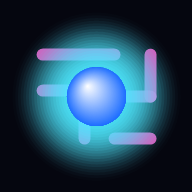
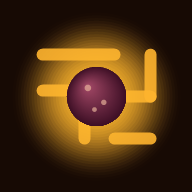
改名《百香果頭女孩》+ 吉祥物改為百香果頭少女
- 過關吉祥物改為 Q 版少女:剖半百香果當頭(果肉臉 + 黑籽)、
  頭頂嫩芽與百香果花髮飾、紫紅洋裝金色滾邊、膚色手腳,
  一手舀刨冰一手搖扇,動畫沿用(搖擺/眨眼/湯匙/搖扇)
- 遊戲與專案改名:百香果頭女孩 PASSIONFRUIT HEAD GIRL
  (頁面標題、開始畫面、manifest、README、資料夾與 remote)
- PWA 圖示改為百香果配色(紫果球 + 橙色迷宮線 + 暖色底)
- Service Worker 快取改名 pfhg-v4

diff --git a/index.html b/index.html
@@ -3,16 +3,16 @@
 <head>
 <meta charset="UTF-8">
 <meta name="viewport" content="width=device-width, initial-scale=1.0, maximum-scale=1.0, user-scalable=no, viewport-fit=cover">
-<title>Nebula Maze 星雲迷宮</title>
-<meta name="description" content="傾斜手機,引導光球穿越星雲能量迷宮。無限關卡、收集星星、躲避黑洞。">
-<meta name="theme-color" content="#05060f">
+<title>百香果頭女孩</title>
+<meta name="description" content="傾斜手機,讓百香果頭女孩的百香果滾過果肉迷宮。無限關卡、收集花朵、避開蟲蛀洞。">
+<meta name="theme-color" content="#170a04">
 <link rel="manifest" href="manifest.webmanifest">
 <link rel="icon" type="image/svg+xml" href="icons/favicon.svg">
 <link rel="apple-touch-icon" href="icons/icon-192.png">
 <meta name="mobile-web-app-capable" content="yes">
 <meta name="apple-mobile-web-app-capable" content="yes">
 <meta name="apple-mobile-web-app-status-bar-style" content="black-translucent">
-<meta name="apple-mobile-web-app-title" content="Nebula Maze">
+<meta name="apple-mobile-web-app-title" content="百香果頭女孩">
 <link rel="stylesheet" href="css/style.css">
 </head>
 <body>
@@ -36,8 +36,8 @@
 <div id="screen-start" class="overlay">
   <div class="panel">
     <div class="logo-orb"></div>
-    <h1 id="title-main">PASSION&nbsp;MAZE</h1>
-    <p class="subtitle" id="title-sub">百香果迷宮</p>
+    <h1 id="title-main">百香果頭女孩</h1>
+    <p class="subtitle" id="title-sub">PASSIONFRUIT HEAD GIRL</p>
     <p class="desc" id="title-desc">傾斜你的手機,讓百香果滾過果肉迷宮。<br>收集花朵、避開蟲蛀洞、滾進果汁漩渦。</p>
     <div class="best" id="best-line"></div>
     <button class="btn-primary" id="btn-start">開始遊戲</button>
@@ -49,7 +49,7 @@
 <!-- 過關畫面 -->
 <div id="screen-clear" class="overlay hidden">
   <div class="panel">
-    <!-- 百香果吉祥物:剖半百香果吃刨冰乘涼(僅百香果主題顯示) -->
+    <!-- 百香果頭少女:剖半百香果當頭的女孩,吃刨冰乘涼(僅百香果主題顯示) -->
     <div id="clear-mascot" aria-hidden="true">
       <svg viewBox="0 0 220 175" xmlns="http://www.w3.org/2000/svg">
         <defs>
@@ -60,65 +60,80 @@
           </radialGradient>
         </defs>
         <!-- 地面影子 -->
-        <ellipse cx="112" cy="163" rx="66" ry="8" fill="rgba(0,0,0,0.3)"/>
+        <ellipse cx="112" cy="164" rx="60" ry="7" fill="rgba(0,0,0,0.3)"/>
         <g class="m-bob">
-          <!-- 腳 -->
-          <ellipse cx="92" cy="150" rx="10" ry="6" fill="#4a1631"/>
-          <ellipse cx="132" cy="150" rx="10" ry="6" fill="#4a1631"/>
-          <!-- 身體:剖半百香果(果皮 → 白色內皮 → 果肉) -->
-          <circle cx="112" cy="94" r="55" fill="#5a1e3e"/>
-          <circle cx="112" cy="94" r="48" fill="#f6e8d8"/>
-          <circle cx="112" cy="94" r="42" fill="url(#m-pulp)"/>
-          <!-- 果肉裡的黑籽(繞一圈) -->
+          <!-- 腿與鞋 -->
+          <line x1="103" y1="128" x2="103" y2="149" stroke="#ffd9b8" stroke-width="5" stroke-linecap="round"/>
+          <line x1="121" y1="128" x2="121" y2="149" stroke="#ffd9b8" stroke-width="5" stroke-linecap="round"/>
+          <ellipse cx="102" cy="152" rx="7" ry="4.5" fill="#4a1631"/>
+          <ellipse cx="122" cy="152" rx="7" ry="4.5" fill="#4a1631"/>
+          <!-- 脖子 -->
+          <rect x="108" y="80" width="8" height="10" rx="3" fill="#ffd9b8"/>
+          <!-- 洋裝 -->
+          <path d="M94 90 Q112 84 130 90 L141 131 Q112 141 83 131 Z" fill="#8f3a6b"/>
+          <path d="M85 124 Q112 134 139 124" stroke="#ffb52e" stroke-width="2.5" fill="none" stroke-linecap="round"/>
+          <circle cx="112" cy="102" r="2" fill="#ffd66e"/>
+          <circle cx="112" cy="112" r="2" fill="#ffd66e"/>
+          <ellipse cx="112" cy="89" rx="9" ry="3.5" fill="#fff7ea"/>
+          <!-- 頭:剖半百香果(果皮 → 白色內皮 → 果肉臉) -->
+          <circle cx="112" cy="52" r="34" fill="#5a1e3e"/>
+          <circle cx="112" cy="52" r="29.5" fill="#f6e8d8"/>
+          <circle cx="112" cy="52" r="26" fill="url(#m-pulp)"/>
+          <!-- 果肉黑籽(避開臉的位置) -->
           <g fill="#2e1608">
-            <ellipse cx="112" cy="60" rx="4.5" ry="3.5"/>
-            <ellipse cx="138" cy="70" rx="4.5" ry="3.5" transform="rotate(40 138 70)"/>
-            <ellipse cx="146" cy="96" rx="4.5" ry="3.5" transform="rotate(80 146 96)"/>
-            <ellipse cx="136" cy="122" rx="4.5" ry="3.5" transform="rotate(130 136 122)"/>
-            <ellipse cx="88" cy="122" rx="4.5" ry="3.5" transform="rotate(50 88 122)"/>
-            <ellipse cx="78" cy="96" rx="4.5" ry="3.5" transform="rotate(100 78 96)"/>
-            <ellipse cx="86" cy="70" rx="4.5" ry="3.5" transform="rotate(140 86 70)"/>
+            <ellipse cx="112" cy="33.5" rx="3.6" ry="2.8"/>
+            <ellipse cx="95" cy="41" rx="3.6" ry="2.8" transform="rotate(-40 95 41)"/>
+            <ellipse cx="129" cy="41" rx="3.6" ry="2.8" transform="rotate(40 129 41)"/>
+            <ellipse cx="90" cy="58" rx="3.6" ry="2.8" transform="rotate(-80 90 58)"/>
+            <ellipse cx="134" cy="58" rx="3.6" ry="2.8" transform="rotate(80 134 58)"/>
           </g>
           <g fill="rgba(255,245,215,0.75)">
-            <circle cx="110.6" cy="59" r="1.1"/>
-            <circle cx="136.6" cy="69" r="1.1"/>
-            <circle cx="144.6" cy="95" r="1.1"/>
-            <circle cx="86.6" cy="121" r="1.1"/>
-            <circle cx="76.6" cy="95" r="1.1"/>
+            <circle cx="111" cy="32.8" r="0.9"/>
+            <circle cx="94" cy="40.2" r="0.9"/>
+            <circle cx="128" cy="40.2" r="0.9"/>
           </g>
-          <!-- 頭頂嫩芽 -->
-          <path d="M112 40 Q111 30 106 26" stroke="#5d8a34" stroke-width="3" fill="none" stroke-linecap="round"/>
-          <ellipse cx="100" cy="24" rx="8" ry="4.5" fill="#6fae3d" transform="rotate(-28 100 24)"/>
-          <ellipse cx="115" cy="22" rx="7" ry="4" fill="#8cc455" transform="rotate(18 115 22)"/>
+          <!-- 頭頂嫩芽 + 百香果花髮飾 -->
+          <path d="M112 18 Q111 11 107 8" stroke="#5d8a34" stroke-width="2.5" fill="none" stroke-linecap="round"/>
+          <ellipse cx="102" cy="7" rx="7" ry="4" fill="#6fae3d" transform="rotate(-26 102 7)"/>
+          <ellipse cx="116" cy="5" rx="6" ry="3.5" fill="#8cc455" transform="rotate(16 116 5)"/>
+          <g transform="translate(86 29)">
+            <g fill="#fdf8ff">
+              <ellipse rx="5.5" ry="2.2" transform="rotate(0)"/>
+              <ellipse rx="5.5" ry="2.2" transform="rotate(60)"/>
+              <ellipse rx="5.5" ry="2.2" transform="rotate(120)"/>
+            </g>
+            <circle r="2.4" fill="#7b3fa0"/>
+            <circle r="1.1" fill="#ffd23e"/>
+          </g>
           <!-- 臉 -->
           <g class="m-eye">
-            <circle cx="97" cy="88" r="5.2" fill="#241008"/>
-            <circle cx="99" cy="86" r="1.8" fill="#fff"/>
+            <circle cx="101" cy="54" r="4.6" fill="#241008"/>
+            <circle cx="102.6" cy="52.4" r="1.5" fill="#fff"/>
           </g>
           <g class="m-eye">
-            <circle cx="127" cy="88" r="5.2" fill="#241008"/>
-            <circle cx="129" cy="86" r="1.8" fill="#fff"/>
+            <circle cx="123" cy="54" r="4.6" fill="#241008"/>
+            <circle cx="124.6" cy="52.4" r="1.5" fill="#fff"/>
           </g>
-          <ellipse cx="84" cy="101" rx="6.5" ry="3.6" fill="rgba(255,110,110,0.5)"/>
-          <ellipse cx="140" cy="101" rx="6.5" ry="3.6" fill="rgba(255,110,110,0.5)"/>
+          <ellipse cx="93" cy="63" rx="5.5" ry="3" fill="rgba(255,110,110,0.5)"/>
+          <ellipse cx="131" cy="63" rx="5.5" ry="3" fill="rgba(255,110,110,0.5)"/>
           <!-- 吃冰的嘴(開口) -->
-          <ellipse cx="112" cy="106" rx="7.5" ry="5.5" fill="#7a2430"/>
-          <ellipse cx="112" cy="108.5" rx="4.5" ry="2.4" fill="#e86a6a"/>
-          <!-- 左手:湯匙(往嘴巴來回) -->
+          <ellipse cx="112" cy="68" rx="5.5" ry="4" fill="#7a2430"/>
+          <ellipse cx="112" cy="70" rx="3.2" ry="1.7" fill="#e86a6a"/>
+          <!-- 左手:湯匙(舀刨冰) -->
           <g class="m-arm-spoon">
-            <path d="M60 102 Q62 118 72 127" stroke="#5a1e3e" stroke-width="9" fill="none" stroke-linecap="round"/>
-            <circle cx="73" cy="128" r="6.5" fill="#5a1e3e"/>
-            <line x1="73" y1="128" x2="65" y2="143" stroke="#b9c2cf" stroke-width="3.5" stroke-linecap="round"/>
-            <ellipse cx="63.5" cy="146" rx="5.5" ry="4" fill="#cfd6e0"/>
-            <circle cx="63.5" cy="144" r="3.2" fill="#ffffff"/>
+            <path d="M96 94 Q86 106 79 120" stroke="#ffd9b8" stroke-width="5.5" fill="none" stroke-linecap="round"/>
+            <circle cx="78" cy="122" r="4.5" fill="#ffd9b8"/>
+            <line x1="78" y1="122" x2="68" y2="139" stroke="#b9c2cf" stroke-width="3.5" stroke-linecap="round"/>
+            <ellipse cx="66" cy="142" rx="5" ry="3.6" fill="#cfd6e0"/>
+            <circle cx="66" cy="140" r="3" fill="#ffffff"/>
           </g>
           <!-- 右手:小圓扇(乘涼) -->
           <g class="m-arm-fan">
-            <path d="M164 102 Q166 114 170 120" stroke="#5a1e3e" stroke-width="9" fill="none" stroke-linecap="round"/>
-            <circle cx="170" cy="121" r="6.5" fill="#5a1e3e"/>
-            <line x1="170" y1="121" x2="181" y2="107" stroke="#c98a3a" stroke-width="3.5" stroke-linecap="round"/>
-            <circle cx="186" cy="100" r="13" fill="#ffedc2" stroke="#e88f2a" stroke-width="2.5"/>
-            <path d="M186 88 V112 M175.6 94 L196.4 106 M175.6 106 L196.4 94" stroke="#e8b46a" stroke-width="1.4"/>
+            <path d="M128 94 Q140 104 149 113" stroke="#ffd9b8" stroke-width="5.5" fill="none" stroke-linecap="round"/>
+            <circle cx="150" cy="114" r="4.5" fill="#ffd9b8"/>
+            <line x1="150" y1="114" x2="161" y2="101" stroke="#c98a3a" stroke-width="3.5" stroke-linecap="round"/>
+            <circle cx="166" cy="94" r="12" fill="#ffedc2" stroke="#e88f2a" stroke-width="2.5"/>
+            <path d="M166 83 V105 M156.6 88.5 L175.4 99.5 M156.6 99.5 L175.4 88.5" stroke="#e8b46a" stroke-width="1.4"/>
           </g>
         </g>
         <!-- 刨冰(玻璃碗 + 冰山 + 百香果醬) -->

diff --git a/js/game.js b/js/game.js
@@ -1,5 +1,5 @@
 /* =========================================================
-   NEBULA MAZE 星雲迷宮
+   百香果頭女孩 PASSIONFRUIT HEAD GIRL
    傾斜操控 · 程序生成 · PWA 離線遊戲
    ========================================================= */
 (() => {
@@ -50,8 +50,8 @@ const THEMES = {
   // 預設:百香果 — 真實水果的滾動手感:幾乎不彈、阻力大、果形不正會搖晃、撞牆會擠壓
   passion: {
     icon: '✿',
-    h1: 'PASSION MAZE',
-    sub: '百香果迷宮',
+    h1: '百香果頭女孩',
+    sub: 'PASSIONFRUIT HEAD GIRL',
     desc: '傾斜你的手機,讓百香果滾過果肉迷宮。<br>收集花朵、避開蟲蛀洞、滾進果汁漩渦。',
     startToast: '傾斜手機,讓百香果滾進果汁漩渦!',
     fallToast: '掉進蟲蛀洞!從起點重來',

diff --git a/css/style.css b/css/style.css
@@ -210,7 +210,7 @@ body.theme-passion #clear-mascot { display: block; }
 }
 #clear-mascot .m-arm-spoon {
   transform-box: fill-box;
-  transform-origin: 15% 10%;
+  transform-origin: 92% 6%;
   animation: m-spoon 2.8s ease-in-out infinite;
 }
 @keyframes m-spoon {
@@ -219,7 +219,7 @@ body.theme-passion #clear-mascot { display: block; }
 }
 #clear-mascot .m-arm-fan {
   transform-box: fill-box;
-  transform-origin: 10% 15%;
+  transform-origin: 9% 33%;
   animation: m-fan 1.6s ease-in-out infinite;
 }
 @keyframes m-fan {

diff --git a/sw.js b/sw.js
@@ -1,5 +1,5 @@
-/* Nebula Maze — Service Worker(離線快取) */
-const CACHE = 'nebula-maze-v3';
+/* 百香果頭女孩 — Service Worker(離線快取) */
+const CACHE = 'pfhg-v4';
 const ASSETS = [
   './',
   './index.html',

diff --git a/README.md b/README.md
@@ -1,10 +1,10 @@
-# Nebula Maze 🌌 / Passion Maze 🥭
+# 百香果頭女孩 🥭 PASSIONFRUIT HEAD GIRL
 
-傾斜你的手機,讓球滾過迷宮 —— 一款 **零依賴、純前端** 的 PWA 傾斜滾球迷宮遊戲。手機優先設計,電腦也可玩。
+傾斜你的手機,讓百香果滾過果肉迷宮 —— 一款 **零依賴、純前端** 的 PWA 傾斜滾球迷宮遊戲。手機優先設計,電腦也可玩。過關時,百香果頭少女會出現吃刨冰乘涼幫你慶祝!
 
 內建兩種主題,**視覺與物理碰撞規則都不同**,可在設定中切換:
 
-| | 🥭 百香果迷宮(預設) | 🌌 星雲迷宮 |
+| | 🥭 百香果(預設) | 🌌 星雲 |
 |---|---|---|
 | 球 | 一顆百香果:果皮斑點隨滾動旋轉、蒂頭、蠟質高光 | 發光能量球 + 光影拖尾 |
 | 場景 | 切開的百香果:紫色果皮牆、金黃果肉地板、散落黑籽 | 霓虹能量牆、深空地板、視差星空 |